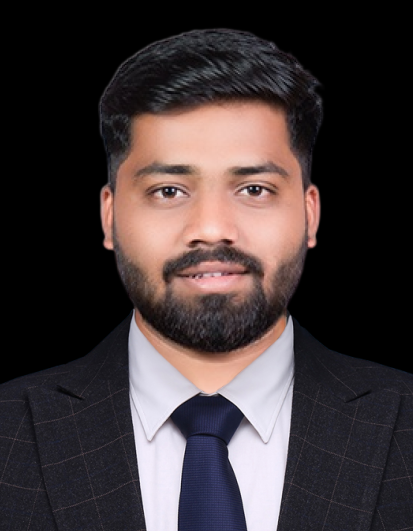
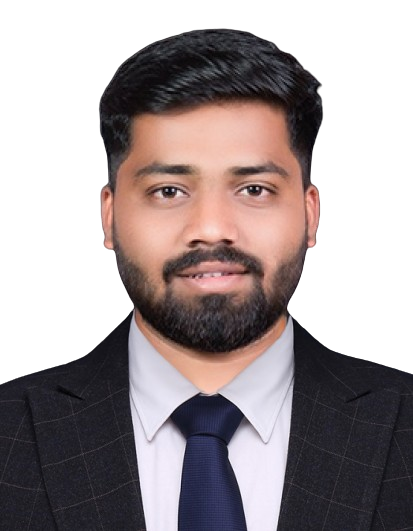
commit

diff --git a/css/index.css b/css/index.css
@@ -15,9 +15,9 @@ body{
     width: 100%;
     height: 100vh;
     background-image: url(../assets/background1.png);
-    background-size: 400px;
+    background-size: auto;
     background-repeat: no-repeat;
-    background-position: right;
+    background-position: 800px;
  }
  .container{
     padding: 10px 10%
